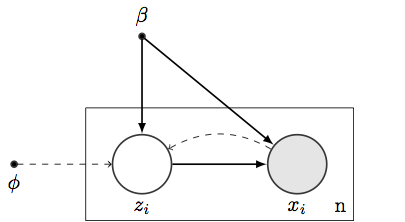
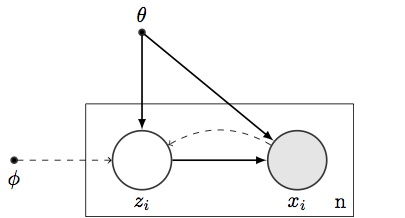
AEVBPlateModel.png

diff --git a/AEVBPlateModel.tex b/AEVBPlateModel.tex
@@ -20,13 +20,13 @@
 \tikzstyle{connect}=[-latex, thick]
 \tikzstyle{box}=[rectangle, draw=black!100]
   \node[main, fill=white!100](z) [label=below:$z_i$] { };
-  \node[main, fill, circle, scale=0.1] (beta) [above=of z,label=above:$\beta$] { };
+  \node[main, fill, circle, scale=0.1] (theta) [above=of z,label=above:$\theta$] { };
   \node[main, fill = black!10] (x) [right=of z,label=below:$x_i$] { };
   \node[main, fill, circle, scale=0.1] (phi) [left=of z, label=below:$\phi$]{ };
   \draw [dashed, ->] (x) to[bend right] node {} (z);
   \draw [dashed, ->] (phi) to node {} (z);
-  \path (beta) edge [connect] (z)
-        (beta) edge [connect] (x)
+  \path (theta) edge [connect] (z)
+        (theta) edge [connect] (x)
         %(phi) edge [connect] (z)
         (z) edge [connect] (x);
         %(x) -- (z);
